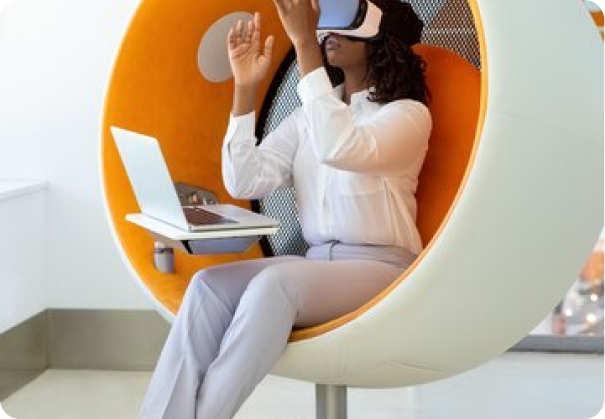
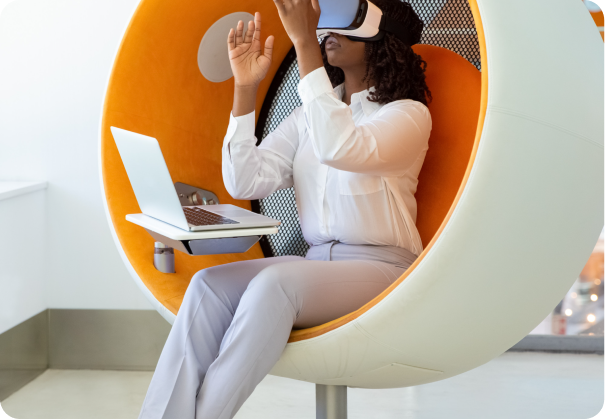
services

diff --git a/src/app/services/components/Frame.tsx b/src/app/services/components/Frame.tsx
@@ -1,0 +1,95 @@
+import Image from "next/image";
+import React from "react";
+import InfoBlock from "../../../../components/InfoBlock";
+import circle from "../../../../public/assets/icons/circle.svg";
+import line from "../../../../public/assets/icons/line.svg";
+import { FONTFAMILY, colors } from "../../../../utils";
+import CustomButton from "../../../../components/CustomButton";
+import SideBars from "../../../../components/SideBars";
+
+const Frame = ({
+  heading,
+  pic,
+  subHead,
+  subTitle,
+  information,
+  img,
+  detail,
+  subTopic,
+}: frame) => {
+  return (
+    <div className="mx-8 my-10">
+      <div className="flex flex-row justify-center mb-10">
+        <h1
+          className="text-[64px] leading-[78px] text-center font-medium w-2/3"
+          style={{ fontFamily: FONTFAMILY.inter, color: colors.black }}
+        >
+          {heading}
+        </h1>
+      </div>
+      <section className="flex flex-col items-center">
+        <div>
+          <Image
+            src={pic}
+            alt="image"
+            width={1380}
+            height={625}
+            sizes="(max-width: 1024px) 100vw, (max-width: 1440px) 100vw, 100vw"
+            loading="lazy"
+          />
+        </div>
+        <div className="flex flex-col gap-4 mt-[60px] mx-[160px]">
+          <h3
+            className="text-[32px] font-semibold text-center leading-10"
+            style={{ fontFamily: FONTFAMILY.inter, color: colors.black }}
+          >
+            {subHead}
+          </h3>
+          <p
+            className="font-normal text-base text-center tracking-[0.51px]"
+            style={{ fontFamily: FONTFAMILY.inter, color: colors.gray2 }}
+          >
+            {information}
+          </p>
+        </div>
+      </section>
+      <section className="flex flex-row mt-[140px] pr-[84px] pl-[116px]">
+        <div className="w-full flex flex-col gap-5 pt-6">
+          <h4
+            className="text-2xl font-semibold leading-8 tracking-[0.51px] w-3/4"
+            style={{ fontFamily: FONTFAMILY.inter, color: colors.black }}
+          >
+            {subTopic}
+          </h4>
+          <p
+            className="font-light text-base text-left leading-[27.8px] tracking-[0.51px] w-4/5"
+            style={{
+              color: colors.gray2,
+              fontFamily: FONTFAMILY.inter,
+              fontWeight: 300,
+            }}
+          >
+            {detail}
+          </p>
+        </div>
+
+        <div className="w-full">
+          <Image
+            src={img}
+            alt="image"
+            width={604}
+            height={419}
+            quality={90}
+            style={{ width: "auto", height: "auto" }}
+          />
+        </div>
+      </section>
+      <section>
+        <h3>{subTitle}</h3>
+        <SideBars img1={circle} img2={line} />
+      </section>
+    </div>
+  );
+};
+
+export default Frame;

diff --git a/components/CustomButton.tsx b/components/CustomButton.tsx
@@ -1,3 +1,4 @@
+import Link from "next/link";
 import { colors, FONTFAMILY } from "../utils";
 import useScreenSize from "../utils/useScreenSize";
 
@@ -20,34 +21,37 @@ const CustomButton = ({
   fontFamily,
   className,
   fontSize,
+  href,
 }: CustomButton) => {
   const { windowSize, isMobile, isTablet, isDesktop } = useScreenSize();
 
   return (
-    <button
-      disabled={disabled}
-      style={{
-        opacity: disabled ? "40%" : "100%",
-        backgroundColor: background,
-        borderRadius: borderRadius,
-        textAlign: "center",
-        width: width,
-        height: height,
-        paddingTop: paddingTop,
-        paddingBottom: paddingBottom,
-        paddingLeft: paddingLeft,
-        paddingRight: paddingRight,
-        color: color,
-        border: border,
-        fontFamily: fontFamily,
-        fontSize: fontSize,
-        fontWeight: fontWeight,
-      }}
-      className={`${className} text-white flex flex-row justify-center items-center`}
-      onClick={loading || disabled ? () => null : onClick}
-    >
-      {text}
-    </button>
+    <a href={href}>
+      <button
+        disabled={disabled}
+        style={{
+          opacity: disabled ? "40%" : "100%",
+          backgroundColor: background,
+          borderRadius: borderRadius,
+          textAlign: "center",
+          width: width,
+          height: height,
+          paddingTop: paddingTop,
+          paddingBottom: paddingBottom,
+          paddingLeft: paddingLeft,
+          paddingRight: paddingRight,
+          color: color,
+          border: border,
+          fontFamily: fontFamily,
+          fontSize: fontSize,
+          fontWeight: fontWeight,
+        }}
+        className={`${className} text-white flex flex-row justify-center items-center`}
+        onClick={loading || disabled ? () => null : onClick}
+      >
+        {text}
+      </button>
+    </a>
   );
 };
 

diff --git a/src/app/services/websiteDevelopment/page.tsx b/src/app/services/websiteDevelopment/page.tsx
@@ -1,0 +1,32 @@
+import React from "react";
+import Frame from "../components/Frame";
+import Image from "next/image";
+import dev from "../../../../public/assets/images/dev.png";
+import wireframes from "../../../../public/assets/images/wireframes.png";
+
+const page = () => {
+  return (
+    <div>
+      <Frame
+        heading={"Website and Application Development"}
+        information={
+          "Our team of skilled developers specializes in creating dynamic and user-friendly websites and mobile applications From concept to deployment, we focus on delivering innovative solutions that not only meet but exceed your expectations. Whether you need a sleek and responsive website or a cutting-edge mobile app, we bring your vision to life with precision and creativity."
+        }
+        pic={wireframes.src}
+        img={dev.src}
+        detail={
+          "At Agrandi Technologies, we transcend boundaries to deliver cutting-edge solutions in website and application development. Our passion lies in crafting digital experiences that not only meet but exceed the expectations of our clients. Whether you're a startup looking to establish your online presence or a seasoned enterprise aiming for digital transformation, our bespoke development services are tailored to elevate your brand to new heights."
+        }
+        subHead={
+          "At Agrandi Technologies, we are passionate about crafting exceptional digital experiences. "
+        }
+        subTopic={
+          "Your Gateway to Innovative Website and Application Development"
+        }
+        subTitle={""}
+      />
+    </div>
+  );
+};
+
+export default page;

diff --git a/components/Footer/page.tsx b/components/Footer/page.tsx
@@ -33,7 +33,7 @@ const Footer = () => {
               <Link key={index} href={link.link}>
                 <p
                   key={index}
-                  className={`text-base font-normal cursor-pointer leading-5 tracking-tighter`}
+                  className={`text-base font-[500] cursor-pointer`}
                   style={{ color: colors.black2 }}
                 >
                   {link.text}
@@ -47,7 +47,7 @@ const Footer = () => {
               <Link key={index} href={link.link}>
                 <p
                   key={index}
-                  className={`text-base font-normal cursor-pointer `}
+                  className={`text-base font-[500] cursor-pointer `}
                   style={{ color: colors.black2 }}
                 >
                   {link.text}
@@ -60,7 +60,7 @@ const Footer = () => {
               <Link key={index} href={link.link}>
                 <p
                   key={index}
-                  className={`text-base font-normal cursor-pointer `}
+                  className={`text-base font-[500] cursor-pointer `}
                   style={{ color: colors.black2 }}
                 >
                   {link.text}
@@ -70,7 +70,7 @@ const Footer = () => {
           </div>
         </div>
         <p
-          className={"font-normal text-[13px] leading-[18px]"}
+          className={"font-[500] text-[13px] leading-[18px]"}
           style={{ color: colors.gray7 }}
         >
           © Copyright 2024 Agrandi Technologies

diff --git a/src/app/about/page.tsx b/src/app/about/page.tsx
@@ -13,9 +13,11 @@ const page = () => {
     {
       heading: "In the heart of Innovation",
       information: (
-        <p>
-          Website and Application Development
-          <br />
+        <>
+          <>
+            {" "}
+            Website and Application Development <br />{" "}
+          </>
           At Agrandi Technologies, we are passionate about crafting exceptional
           digital experiences. Our team of skilled developers specializes in
           creating dynamic and user-friendly websites and mobile applications.
@@ -23,7 +25,7 @@ const page = () => {
           solutions that not only meet but exceed your expectations. Whether you
           need a sleek and responsive website or a cutting-edge mobile app, we
           bring your vision to life with precision and creativity
-        </p>
+        </>
       ),
       img: vrGirl.src,
     },
@@ -41,9 +43,9 @@ const page = () => {
     },
   ];
   return (
-    <div>
+    <div className="mb-[146px]">
       <div className="mx-8">
-        <Image src={aboutBg} alt="backgroundImage" />
+        <Image src={aboutBg} alt="backgroundImage" quality={90} />
       </div>
       <div className="mb-[92px]">
         <section className="flex flex-row justify-between 2xl:justify-center 2xl:gap-44">

diff --git a/components/InfoBlock.tsx b/components/InfoBlock.tsx
@@ -1,3 +1,4 @@
+"use client";
 import React from "react";
 import { FONTFAMILY, colors } from "../utils";
 import CustomButton from "./CustomButton";
@@ -42,6 +43,7 @@ const InfoBlock = ({
               borderRadius={10}
               fontFamily={FONTFAMILY.dmSans}
               className={"tracking-wider"}
+              href="/services/websiteDevelopment"
             />
           ) : (
             type === "about" && ""
@@ -55,6 +57,7 @@ const InfoBlock = ({
           width={604}
           height={419}
           // className="lg:min-w-[650px]"
+          quality={90}
           style={{ width: "auto", height: "auto" }}
         />
       </div>

diff --git a/types/components.d.ts b/types/components.d.ts
@@ -63,6 +63,7 @@ type CustomButton = {
   borderEndStartRadius?: number;
   fontSize?: number;
   className?: any;
+  href?: string;
 };
 
 type LayoutProps = {
@@ -153,4 +154,20 @@ type infoBlock = {
   img: string;
   className: any;
   type?: string;
+};
+type frame = {
+  heading: number | string;
+  information: React.ReactNode;
+  pic: string;
+  img: string;
+  className?: any;
+  type?: string;
+  subHead: string;
+  subTitle: string;
+  detail: string;
+  subTopic: string;
+};
+type sideBars = {
+  img1: string;
+  img2: string;
 };

diff --git a/src/app/components/service/Service.tsx b/src/app/components/service/Service.tsx
@@ -15,7 +15,7 @@ const Service = () => {
       <section className="flex flex-col-reverse xl:flex xl:flex-row xl:justify-between pr-[148px] pl-[116px] mt-[90px]">
         <div className="w-full">
           <h3
-            className="font-medium text-[40px] text-left w-4/5"
+            className="font-medium text-[40px] text-left w-[57%]"
             style={{ color: colors.black }}
           >
             Website, Web & Mobile Application Development

diff --git a/components/SideBars.tsx b/components/SideBars.tsx
@@ -1,0 +1,15 @@
+import Image from "next/image";
+import React from "react";
+
+const SideBars = ({ img1, img2 }: sideBars) => {
+  return (
+    <div className="flex flex-row justify-start">
+      <div className="grid grid-flow-row gap-0 justify-items-center">
+        <Image src={img1} alt="image" />
+        <Image src={img2} alt="image" />
+      </div>
+    </div>
+  );
+};
+
+export default SideBars;
